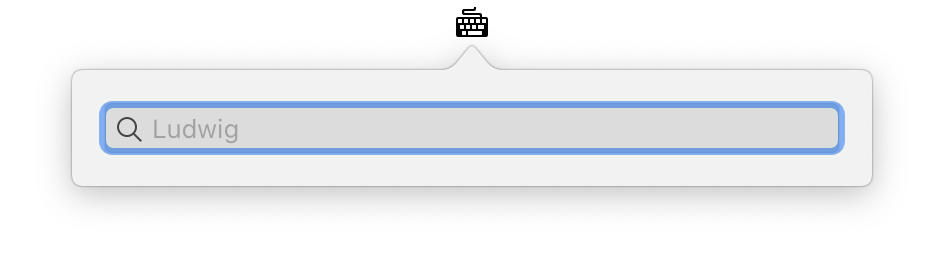
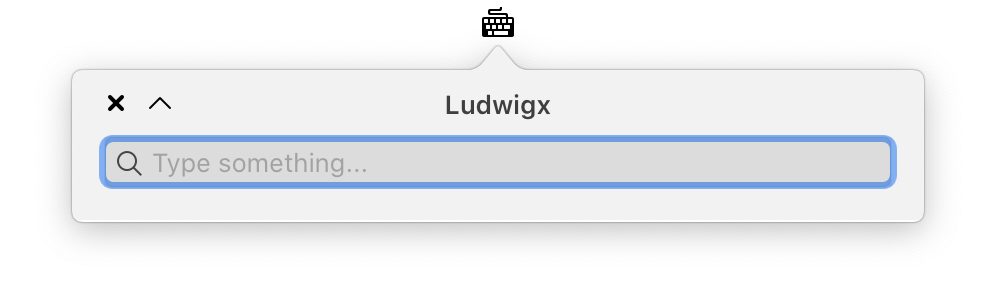
Update preview, add link to blog

diff --git a/README.md b/README.md
@@ -2,25 +2,10 @@
   <img src="preview.png" alt="Ludwigx">
   <h1 align="center">Ludwigx</h1>
   <p align="center">
-    Minimal Ludwig app in macOS menu bar without limitation.
-    <br/>
-    <a href="https://ludwig.guru">https://ludwig.guru</a>
-    <br/>
-    <br/>
-    <img src="https://img.shields.io/badge/version-0.0.1-green?style=flat"/>
+    Minimal <a href="https://ludwig.guru">Ludwig.guru</a> app on macOS menu bar without limitation.
   </p>
-  <h3 align="center">Installation</h3>
+  <h3 align="center">Read more</h3>
   <p align="center">
-    Download <a href="https://github.com/thang-nm/Ludwigx/releases">here</a> → Extract → Move to <strong>Applications</strong> → Enjoy!
-    <br>
-    <strong>OR</strong>
-    <br>
-    Build your own from this project.
-    <br>
-    <br>
-    This app doesn't have a signature, so you need to do <a href="http://osxdaily.com/2016/09/27/allow-apps-from-anywhere-macos-gatekeeper">this</a> to run this app.
-    <br>
-    <br>
-    Thank <a href="https://www.deviantart.com/1dohcouk/art/Typewriter-324969277">@1dohcouk</a> for the icon!
+    <a href="https://thang-nm.github.io/2020/08/30/ludwigx-minimal-ludwig.guru-app.html">https://thang-nm.github.io/2020/08/30/ludwigx-minimal-ludwig.guru-app.html</a>
   </p>
 </p>
